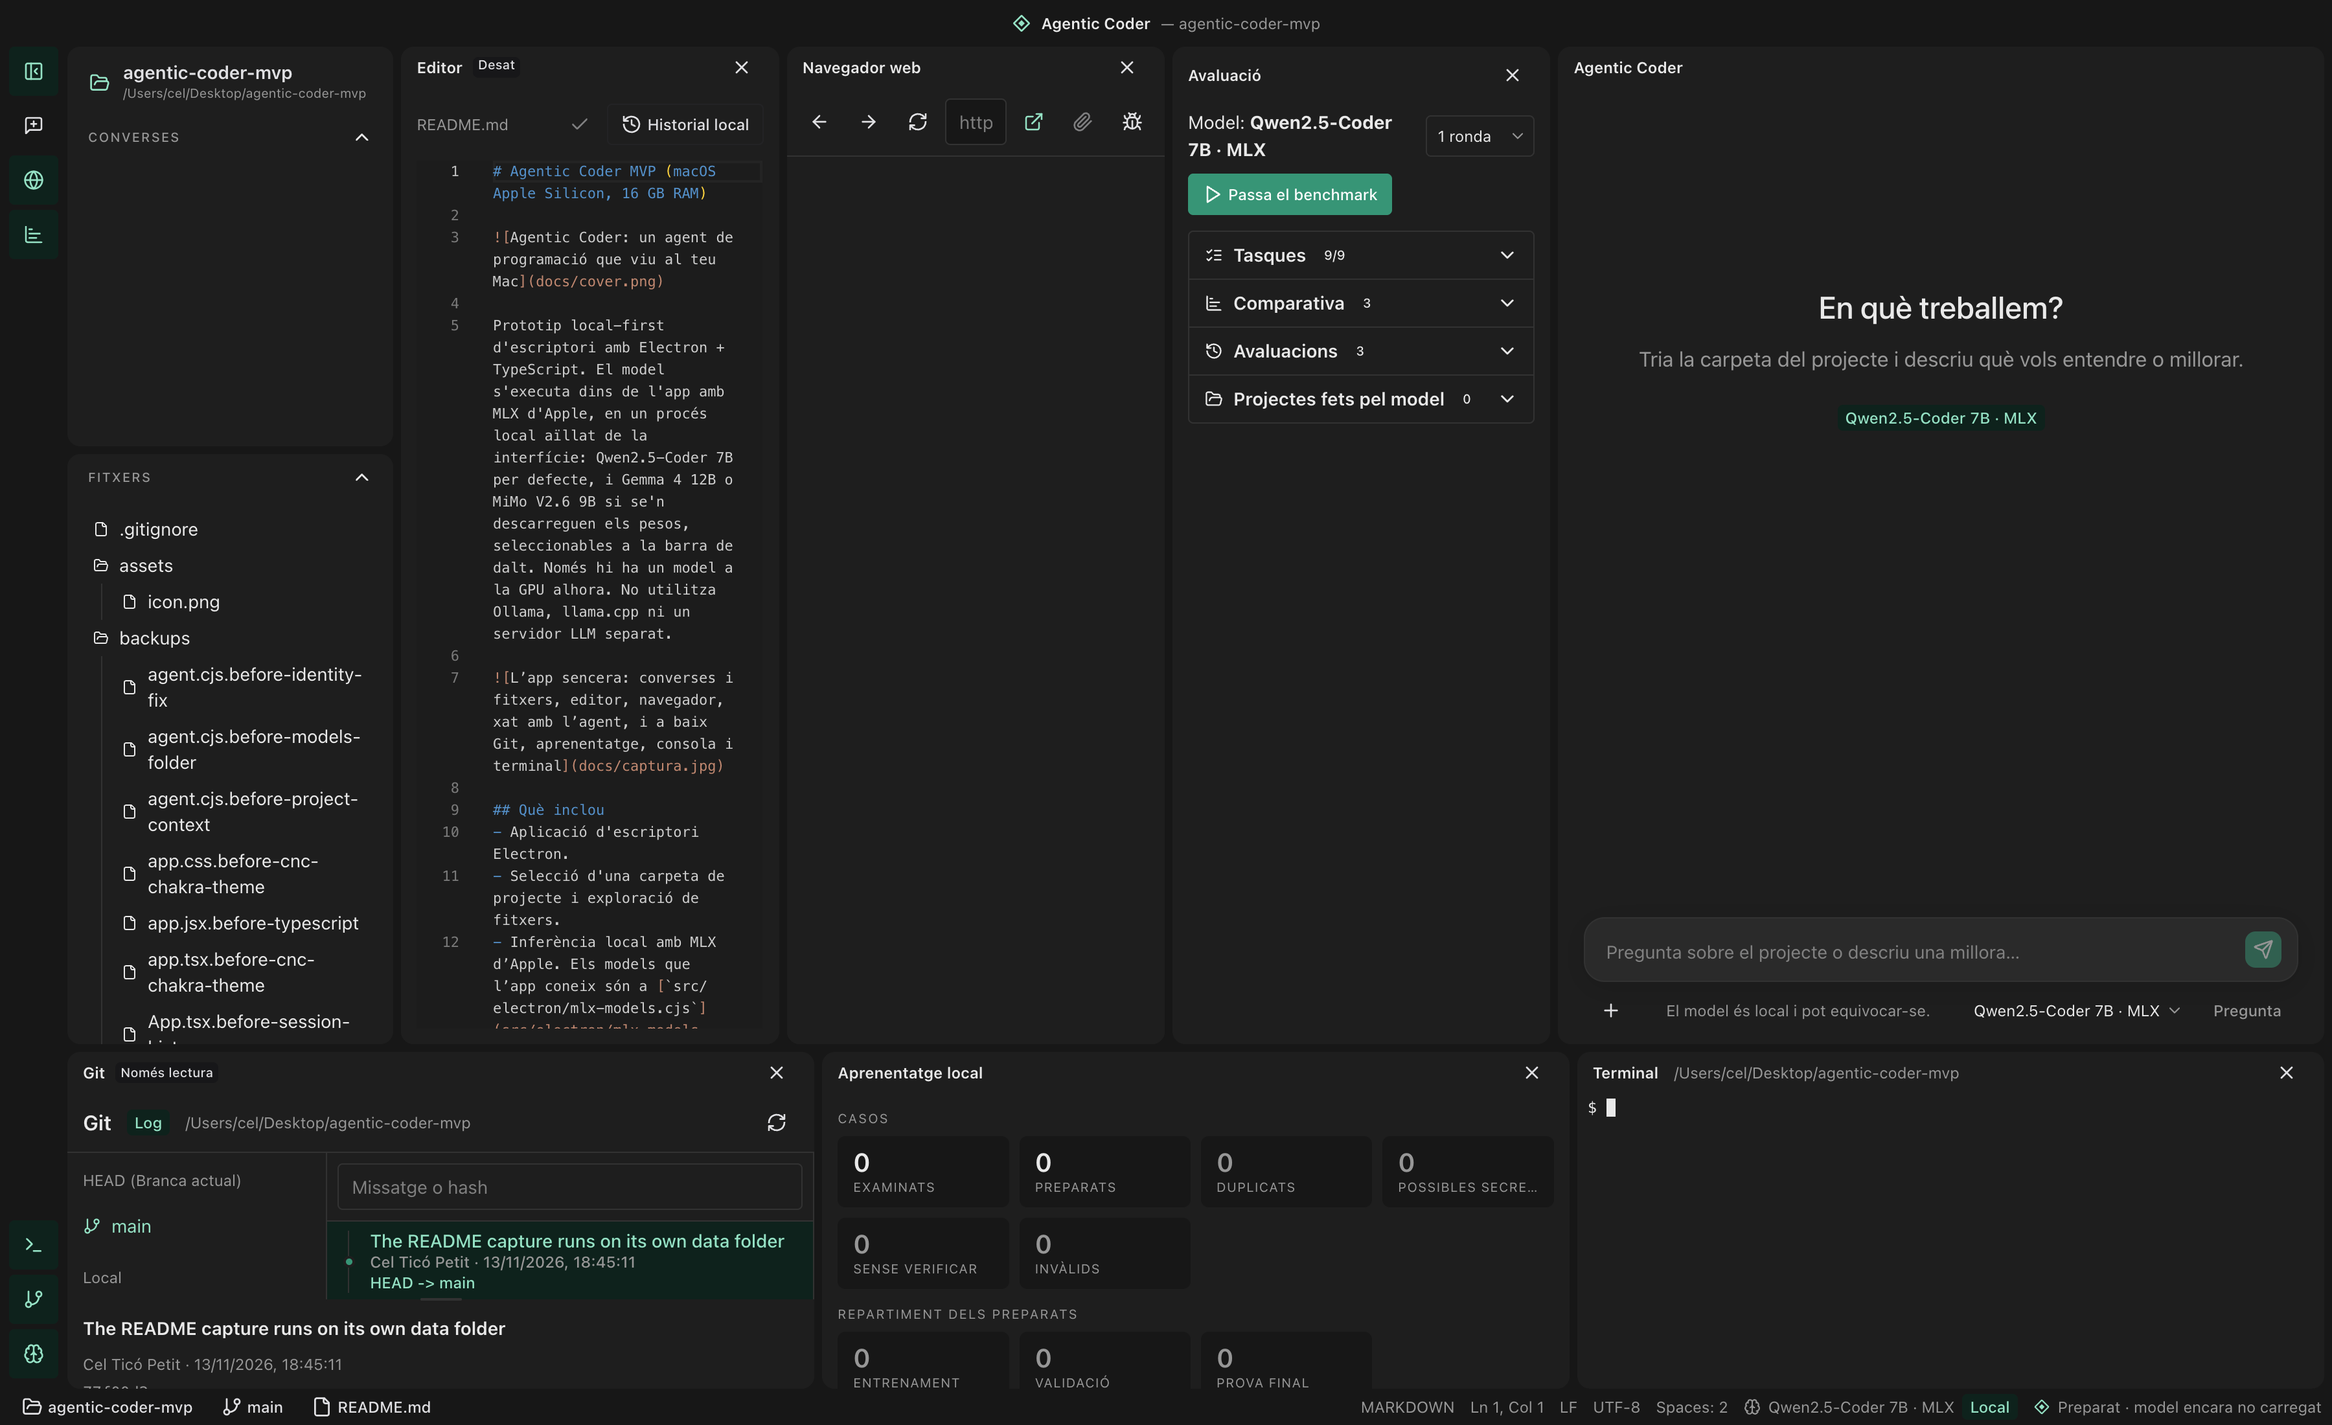
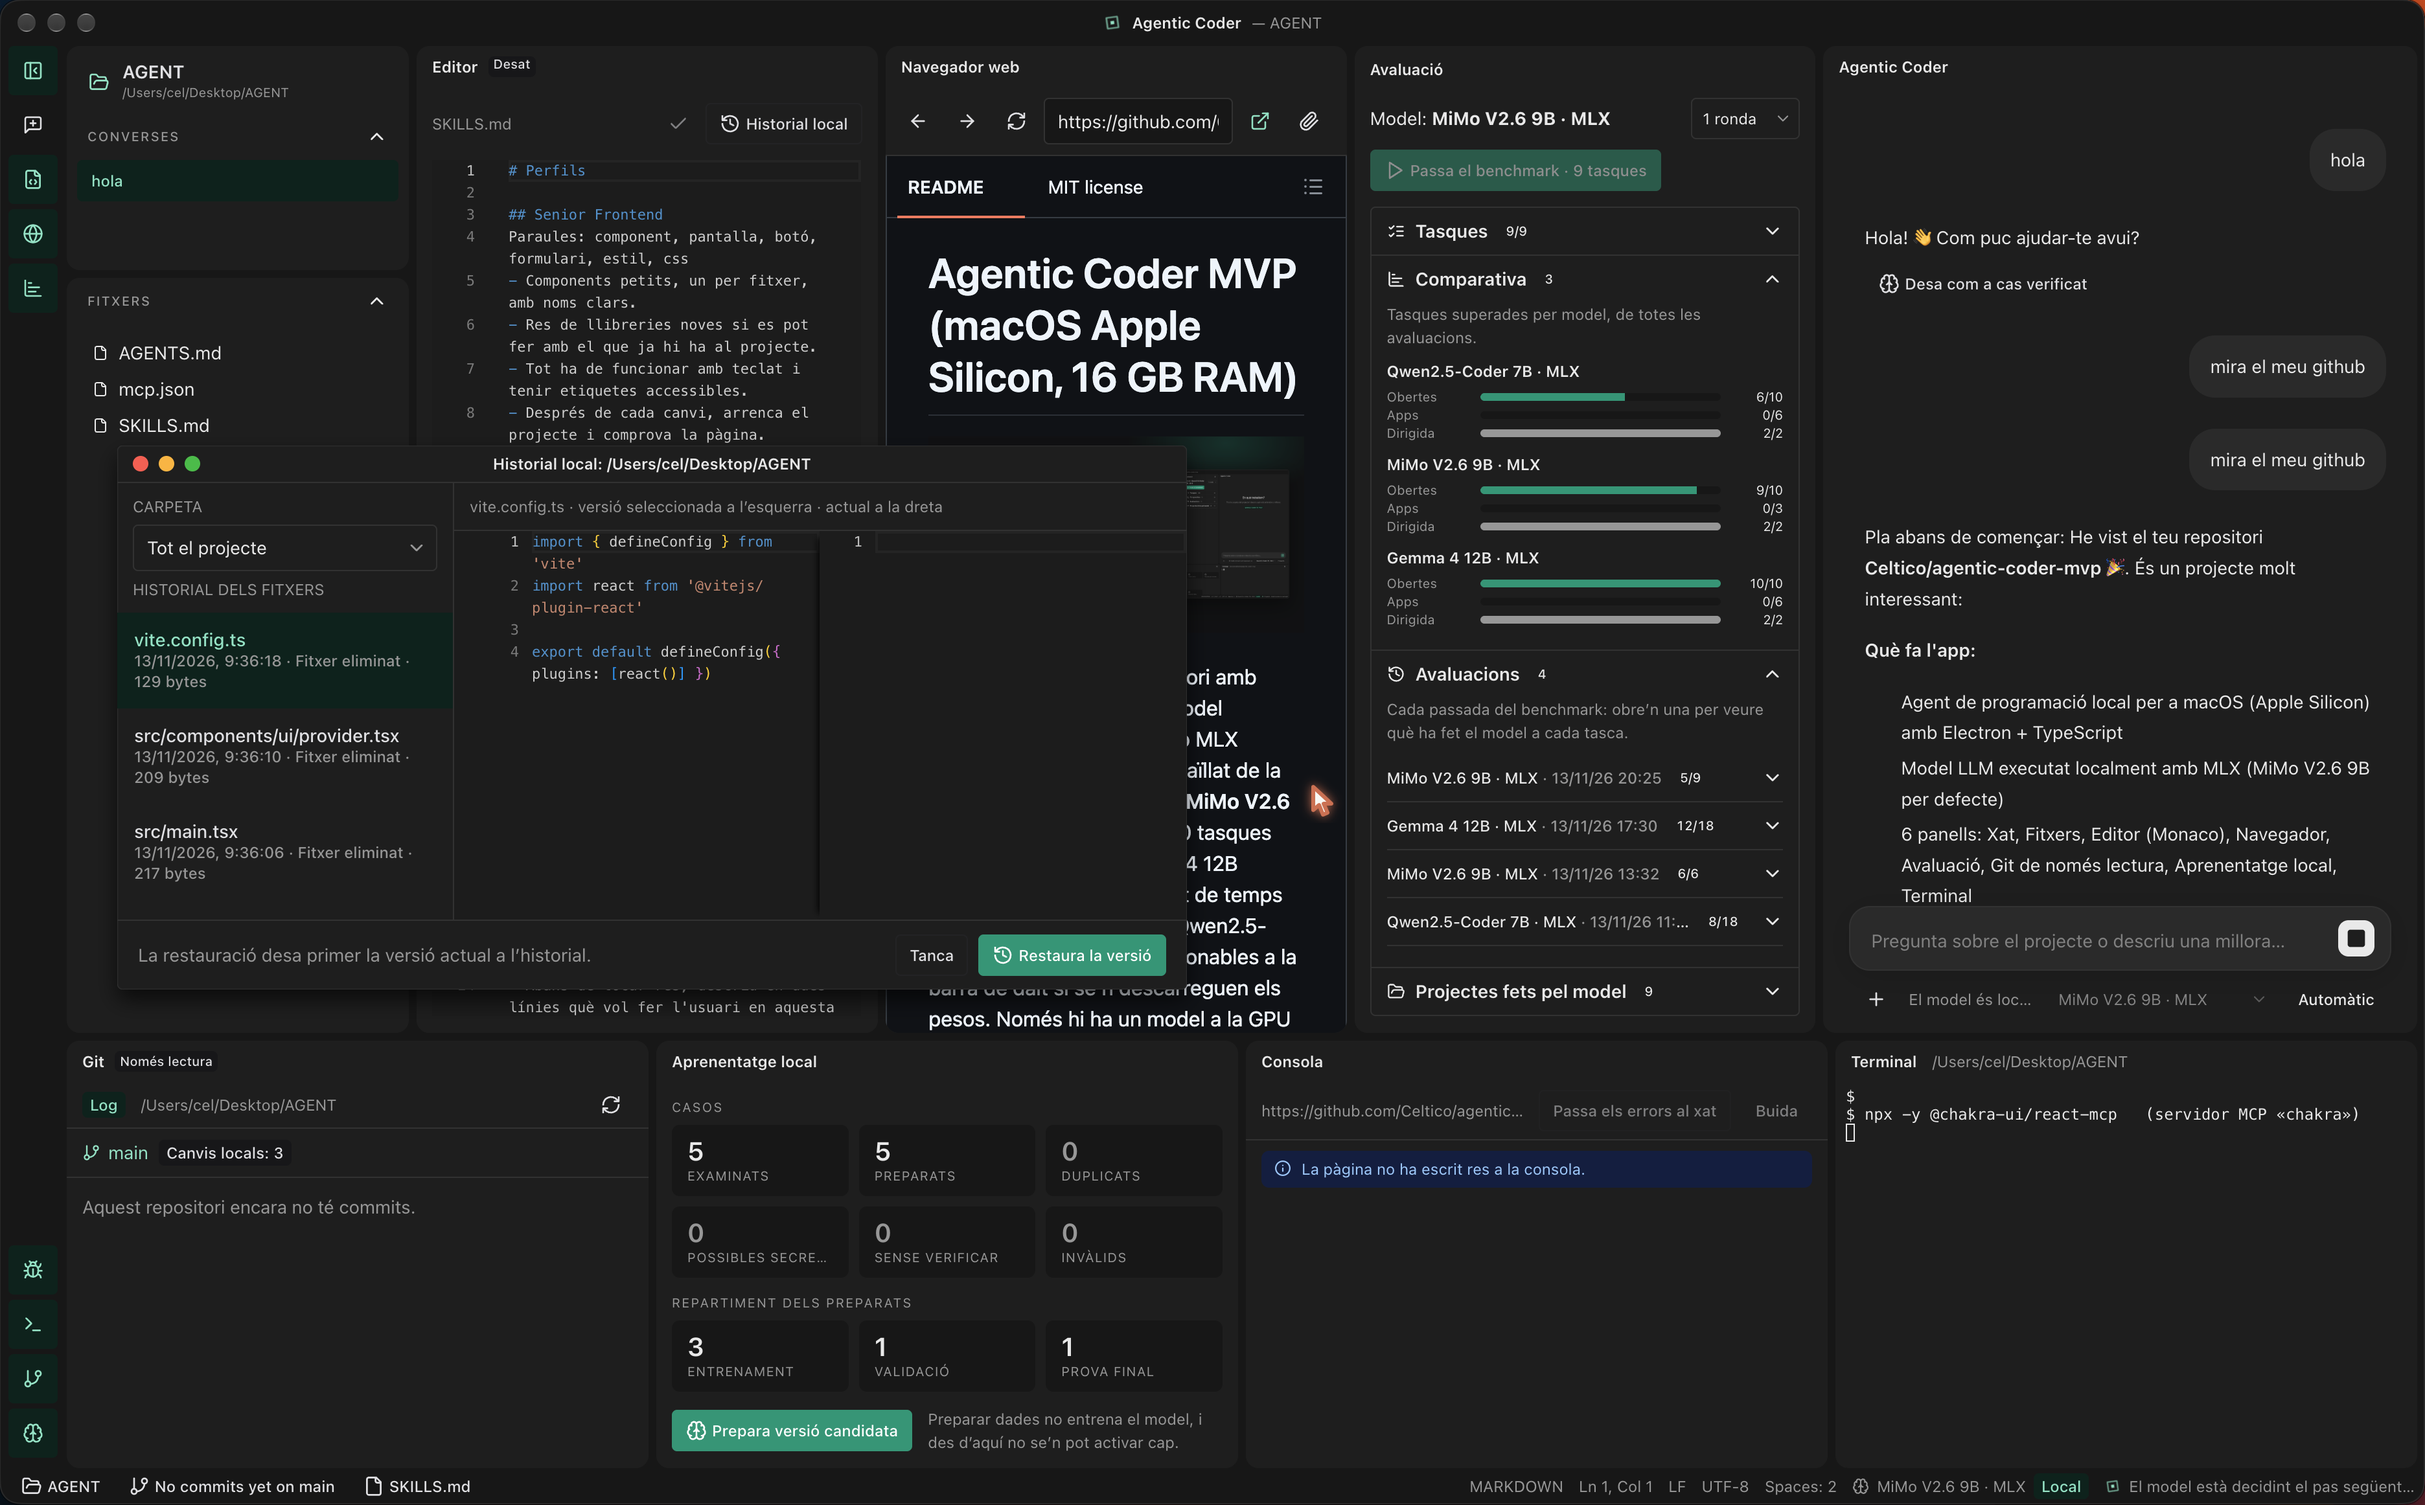
New cover and README capture with every window
Both come from a capture of the app with every pane open: the chat with
MiMo, the comparison, the local history window and the bottom dock. The
cover shows it a little bigger and adds the Consola label; the README
capture is a PNG with rounded, transparent corners instead of the old
captura.jpg.

diff --git a/docs/cover/cover.html b/docs/cover/cover.html
@@ -16,10 +16,10 @@
   .chips { position: absolute; left: 110px; top: 850px; width: 800px; display: flex; flex-wrap: wrap; gap: 18px; }
   .chip { padding: 12px 26px; border: 2px solid #3a3a3a; border-radius: 40px; color: #ececec; font-size: 28px; font-weight: 600; }
   .url { position: absolute; left: 110px; top: 1080px; font-size: 38px; font-weight: 600; color: #65c9ad; }
-  .shot { position: absolute; left: 960px; top: 212px; width: 1340px; border-radius: 14px; overflow: hidden; border: 2px solid #2b2b2b; box-shadow: 0 40px 120px rgba(0, 0, 0, .6); background: #171717; }
-  /* The macOS traffic lights, where the app's own hidden-inset title bar has them (20/40/60 pt, 12 pt round). */
+  .shot { position: absolute; left: 930px; top: 192px; width: 1400px; border-radius: 19px; overflow: hidden; box-shadow: 0 40px 120px rgba(0, 0, 0, .6); background: #171717; }
+  /* The macOS traffic lights, in colour, over the grey ones of the capture (the window was not in front). */
   .shot .lights { position: absolute; left: 0; top: 0; }
-  .shot .lights i { position: absolute; width: 9px; height: 9px; margin: -4.5px 0 0 -4.5px; border-radius: 50%; top: 13.4px; box-shadow: inset 0 0 0 .5px rgba(0, 0, 0, .25); }
+  .shot .lights i { position: absolute; width: 10.5px; height: 10.5px; margin: -5.25px 0 0 -5.25px; border-radius: 50%; top: 13.5px; box-shadow: inset 0 0 0 .5px rgba(0, 0, 0, .25); }
   .shot img { display: block; width: 100%; }
 </style>
 </head>
@@ -30,8 +30,8 @@
     <h1>Un agent de programació <em>que viu al teu Mac.</em></h1>
     <p>Totes les eines en una sola finestra. El model corre en local amb MLX (Qwen, Gemma o MiMo): el teu codi no surt de la màquina.</p>
   </div>
-  <div class="chips"><span class="chip">Xat</span><span class="chip">Fitxers</span><span class="chip">Editor</span><span class="chip">Navegador</span><span class="chip">Avaluació</span><span class="chip">Git</span><span class="chip">Aprenentatge</span><span class="chip">Terminal</span></div>
+  <div class="chips"><span class="chip">Xat</span><span class="chip">Fitxers</span><span class="chip">Editor</span><span class="chip">Navegador</span><span class="chip">Consola</span><span class="chip">Avaluació</span><span class="chip">Git</span><span class="chip">Aprenentatge</span><span class="chip">Terminal</span></div>
   <div class="url">github.com/Celtico/agentic-coder-mvp</div>
-  <div class="shot"><img src="app.png" alt=""><div class="lights"><i style="left:15px;background:#ff5f57"></i><i style="left:30px;background:#febc2e"></i><i style="left:45px;background:#28c840"></i></div></div>
+  <div class="shot"><img src="app.png" alt=""><div class="lights"><i style="left:15.7px;background:#ff5f57"></i><i style="left:33.3px;background:#febc2e"></i><i style="left:50.9px;background:#28c840"></i></div></div>
 </body>
 </html>

diff --git a/README.md b/README.md
@@ -4,7 +4,7 @@
 
 Prototip local-first d'escriptori amb Electron + TypeScript. El model s'executa dins de l'app amb MLX d'Apple, en un procés local aïllat de la interfície. El model base és **MiMo V2.6 9B**: al [benchmark](#benchmark) fa 9 de 10 tasques obertes, a prop de Gemma 4 12B (10/10), en gairebé la meitat de temps per tasca. Gemma 4 12B i Qwen2.5-Coder 7B continuen seleccionables a la barra de dalt si se'n descarreguen els pesos. Només hi ha un model a la GPU alhora. No utilitza Ollama, llama.cpp ni un servidor LLM separat.
 
-![L’app sencera: converses i fitxers, editor, navegador, avaluació, xat amb l’agent, i a baix Git, aprenentatge i terminal](docs/captura.jpg)
+![L’app sencera: converses i fitxers, editor amb l’Historial local, navegador, avaluació, xat amb l’agent, i a baix Git, aprenentatge, consola i terminal](docs/captura.png)
 
 ## Finestres
 Cada finestra és una funcionalitat; s’obren i es tanquen des de les icones de la barra de l’esquerra.
